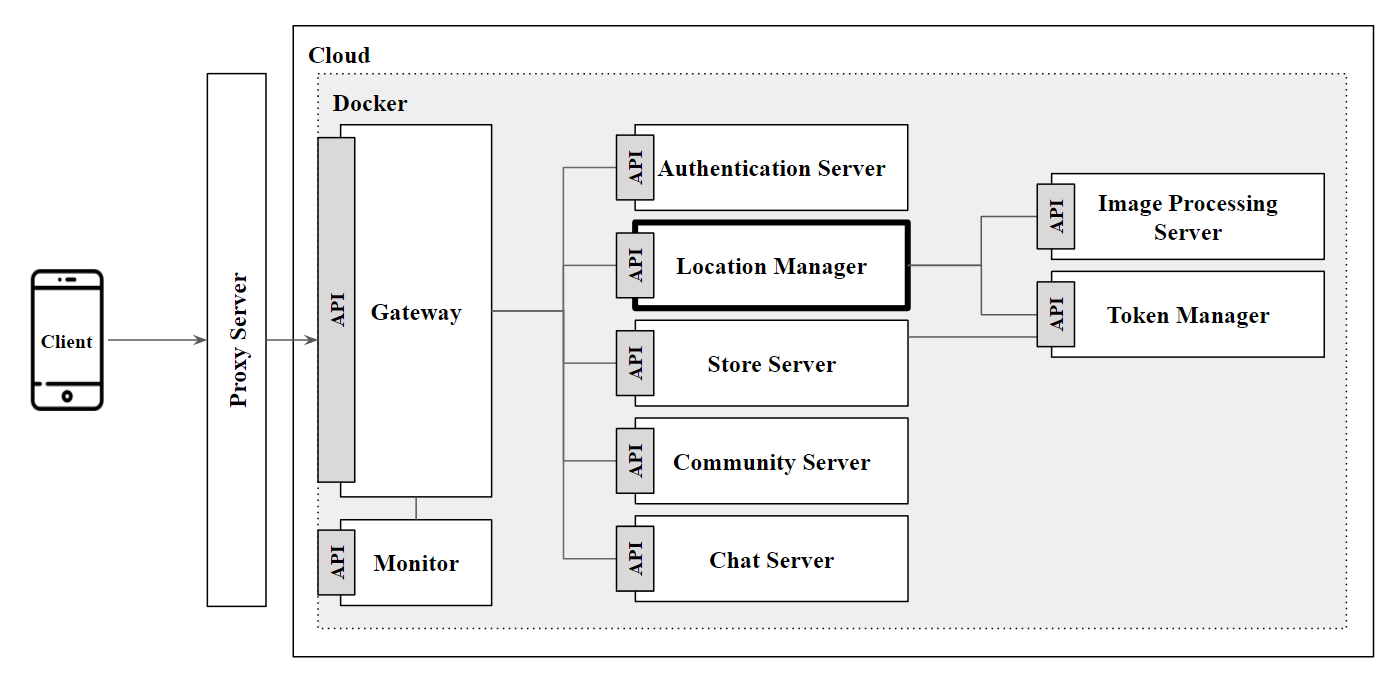
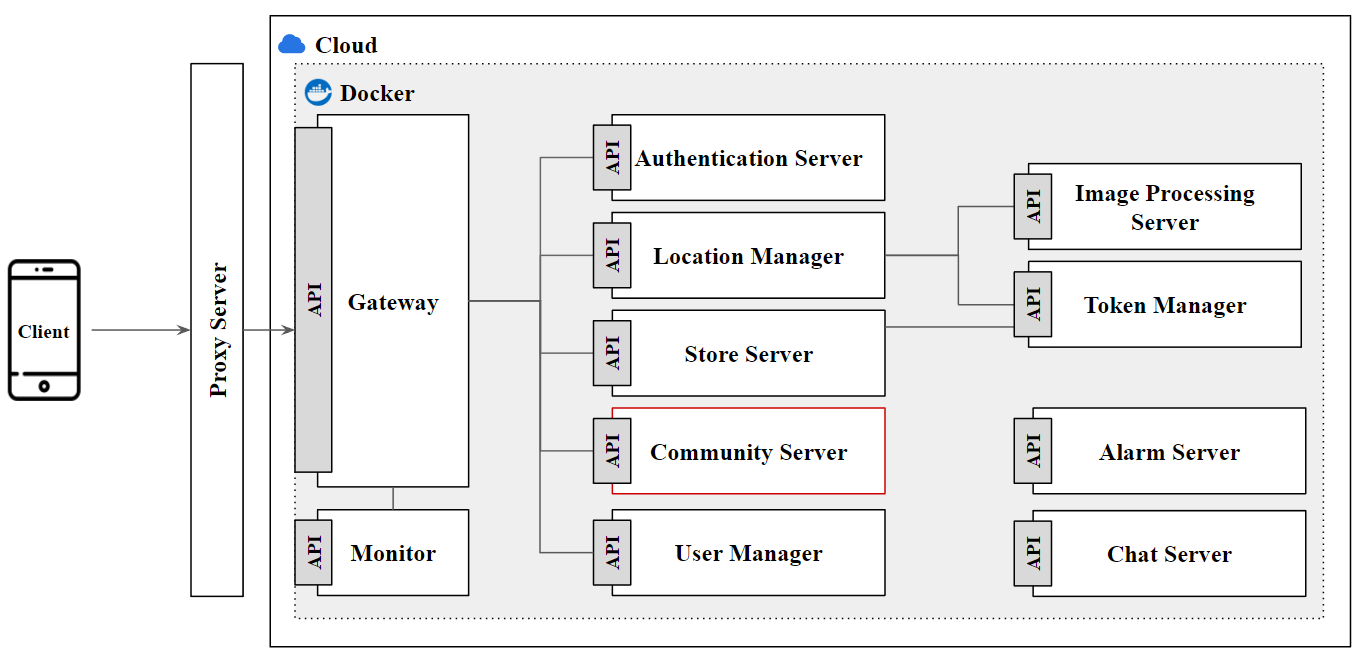
0.0.3 Readme update

diff --git a/old/community_old/src/main/java/com/example/community_old/Controller/CommunityController/BoardController.java b/old/community_old/src/main/java/com/example/community_old/Controller/CommunityController/BoardController.java
@@ -24,7 +24,6 @@ public class BoardController {
     private final AuthenticationCommunicator authentication;
 
     @PostMapping("user/board/save/{locationId}")
-
     public ResponseEntity save(@PathVariable int locationId, @RequestPart("dto") BoardDto dto,
                                @RequestPart(value = "file" , required = false) MultipartFile file, @RequestHeader("Authorization") String jwt){
         AuthDto user = authentication.authentication(jwt);

diff --git a/README.md b/README.md
@@ -1,9 +1,8 @@
 # Capstone Design Project / Any Where Map
-This is the map-specific repository for AWM v2.
+This is the repository for community features related to AWM v2.
 
-## 0. Introduction to Location Manager
-Provides functionality for viewing information about a venue, registering, modifying, etc.  
-For more information about the API, DB, and more, see the documentation in the '/doc' folder.
+## 0. Introduction to Community Server
+Offers a community where users can write, view, and modify posts.
 
 ## 1. Repository Classification
 |Repository|Description|URL|
@@ -15,4 +14,3 @@ In the meta repository, see the list of 'Repository Classifications' in item #1.
 
 ## 2. Architecture
 ![msa_architecture](./doc/file/image/readme_2.png)
-![msa_service](./doc/file/image/readme_2_1.png)
